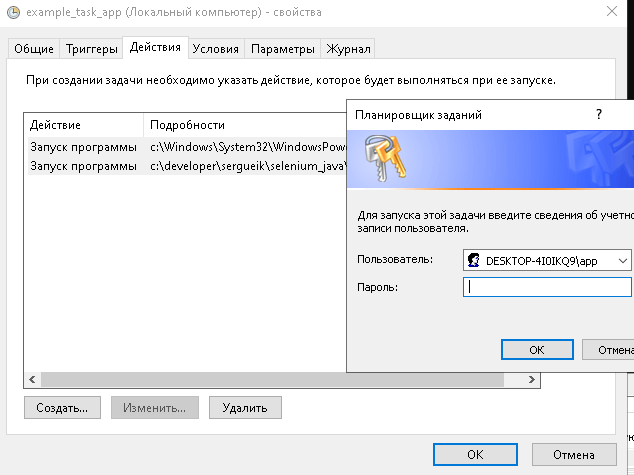
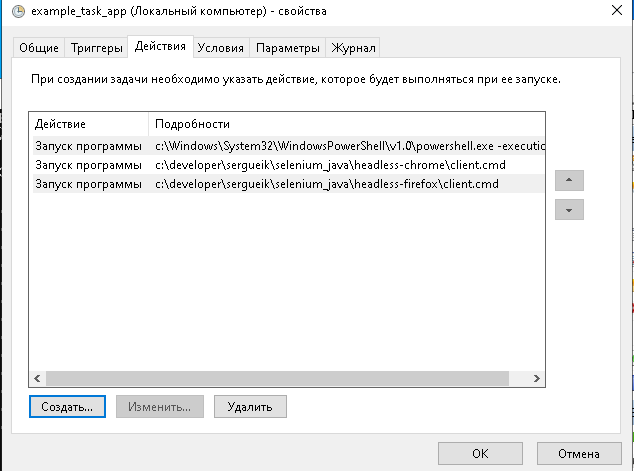
intermeidate revision - added firefox example, minor cosmetic changes in code, added screenshot in  README.md

Changed region(s): [[0.0, 0.0, 1.0, 1.0], [0.5394, 0.535, 0.6893, 0.5648], [0.5394, 0.5945, 0.6293, 0.6242]]

diff --git a/headless-firefox/src/test/java/example/MinimalTest.java b/headless-firefox/src/test/java/example/MinimalTest.java
@@ -51,10 +51,12 @@ public class MinimalTest {
 	// application configuration file
 	private static String propertiesFileName = "application.properties";
 	private static Map<String, String> propertiesMap = new HashMap<>();
+	private static boolean headless = false;
 
 	@BeforeClass
 	public static void setup() throws IOException {
 
+		headless = setHeadless();
 		propertiesMap = PropertiesParser
 				.getProperties(String.format("%s/src/main/resources/%s",
 						System.getProperty("user.dir"), propertiesFileName));
@@ -72,16 +74,23 @@ public class MinimalTest {
 		 * (Exception e) { }
 		 */
 		// TODO: convert to command line parameter
-		firefoxBinary.addCommandLineOptions("--headless");
-		// NOTE: size argument appears to be ignored
-		firefoxBinary.addCommandLineOptions("--window-size=320,200");
+		if (headless) {
+			firefoxBinary.addCommandLineOptions("--headless");
+			// NOTE: size argument appears to be ignored
+			firefoxBinary.addCommandLineOptions("--window-size=320,200");
+			System.out.println("Switching to headless");
+		} else {
+			System.out.println("Switching to / staying visible");
+		}
 
 		String browserDriver = (propertiesMap
 				.get(browserDrivers.get("browser")) != null)
 						? propertiesMap.get(browserDrivers.get("browser"))
 						: osName.equals("windows")
-								? new File(String.format("%s/Downloads/geckodriver.exe",
-										System.getenv("USERPROFILE"))).getAbsolutePath()
+								/* ? osName.equals("windows") new File(String.format("%s/Downloads/geckodriver.exe",
+										System.getenv("USERPROFILE"))).getAbsolutePath() */
+								? (new File("c:/java/selenium/geckodriver.exe"))
+										.getAbsolutePath()
 								: String.format("%s/Downloads/geckodriver",
 										System.getenv("HOME"));
 		// assuming browser is 32 bit firefox on Windows
@@ -97,12 +106,6 @@ public class MinimalTest {
 		driver = new FirefoxDriver(firefoxOptions);
 		// dynamicSearchButtonTest
 		driver.manage().timeouts().implicitlyWait(4, TimeUnit.SECONDS);
-	}
-
-	// @Ignore
-	@Test
-	public void testChromeDriver() throws Exception {
-		assertThat(driver, notNullValue());
 	}
 
 	@Test
@@ -140,12 +143,12 @@ public class MinimalTest {
 			// obscures it (the name of obscuring element varies)
 			try {
 				// take screenshot in catch block.
-				System.err.println("Taking a screenshot");
 				File scrFile = ((TakesScreenshot) driver)
 						.getScreenshotAs(OutputType.FILE);
 				String currentDir = System.getProperty("user.dir");
-				FileUtils.copyFile(scrFile,
-						new File(FilenameUtils.concat(currentDir, "screenshot.png")));
+				String filePath = FilenameUtils.concat(currentDir, "screenshot1.png");
+				System.err.println("Taking a screenshot in exception: " + filePath);
+				FileUtils.copyFile(scrFile, new File(filePath));
 			} catch (IOException ex) {
 				System.err.println(
 						"Excepion when taking the screenshot (ignored) " + ex.toString());
@@ -177,8 +180,9 @@ public class MinimalTest {
 				File scrFile = ((TakesScreenshot) driver)
 						.getScreenshotAs(OutputType.FILE);
 				String currentDir = System.getProperty("user.dir");
-				FileUtils.copyFile(scrFile,
-						new File(FilenameUtils.concat(currentDir, "screenshot.png")));
+				String filePath = FilenameUtils.concat(currentDir, "screenshot2.png");
+				System.err.println("Taking a screenshot in teardown: " + filePath);
+				FileUtils.copyFile(scrFile, new File(filePath));
 			} catch (IOException ex) {
 				System.err.println(
 						"Excepion when taking the screenshot (ignored) " + ex.toString());
@@ -198,4 +202,64 @@ public class MinimalTest {
 		}
 		return osName;
 	}
+
+	public static boolean setHeadless() {
+		boolean headless = false;
+		if (System.getenv().containsKey("HEADLESS")
+				&& System.getenv("HEADLESS").matches("(?:true|yes|1)")) {
+			headless = true;
+		}
+		if (!(getOSName().equals("windows"))
+				&& !(System.getenv().containsKey("DISPLAY"))) {
+			headless = true;
+		}
+
+		// alternatively not even add the environment variable WINDOWS_NO_DISPLAY
+		if (getOSName().equals("windows")) {
+			headless = false;
+			System.out
+					.println("Observed environment keys: " + System.getenv().keySet());
+
+			for (String key : (new String[] { "JAVA_OPTS", "MAVEN_OPTS",
+					"JAVA_TOOL_OPTIONS" })) {
+				System.out.println(String.format("Checking environment %s: %s", key,
+						System.getenv(key)));
+			}
+
+			// NOTE: when set through batch file the new environment variable
+			// WINDOWS_NO_DISPLAY
+			// remains undiscovered
+			if (System.getenv().containsKey("WINDOWS_NO_DISPLAY")
+					&& System.getenv("WINDOWS_NO_DISPLAY").matches("(?:true|yes|1)")) {
+				System.out.println("Detected WINDOWS_NO_DISPLAY");
+				headless = true;
+			}
+			if (getPropertyEnv("WINDOWS_NO_DISPLAY", "").matches("(?:true|yes|1)")) {
+				System.out
+						.println("Detected WINDOWS_NO_DISPLAY environment or property");
+				headless = true;
+			}
+			if (System.getenv().containsKey("JAVA_TOOL_OPTIONS")
+					&& System.getenv("JAVA_TOOL_OPTIONS")
+							.matches(".*WINDOWS_NO_DISPLAY=(?:true|yes|1).*")) {
+				System.out.println("Detected WINDOWS_NO_DISPLAY in JAVA_TOOL_OPTIONS");
+				headless = true;
+			}
+		}
+		return headless;
+	}
+
+	// origin:
+	// https://github.com/TsvetomirSlavov/wdci/blob/master/code/src/main/java/com/seleniumsimplified/webdriver/manager/EnvironmentPropertyReader.java
+	public static String getPropertyEnv(String name, String defaultValue) {
+		String value = System.getProperty(name);
+		if (value == null) {
+			value = System.getenv(name);
+			if (value == null) {
+				value = defaultValue;
+			}
+		}
+		return value;
+	}
+
 }

diff --git a/headless-chrome/src/test/java/software/MinimalTest.java b/headless-chrome/src/test/java/software/MinimalTest.java
@@ -194,12 +194,12 @@ public class MinimalTest {
 			// obscures it (the name of obscuring element varies)
 			try {
 				// take screenshot in catch block.
-				System.err.println("Taking a screenshot");
 				File scrFile = ((TakesScreenshot) driver)
 						.getScreenshotAs(OutputType.FILE);
 				String currentDir = System.getProperty("user.dir");
-				FileUtils.copyFile(scrFile,
-						new File(FilenameUtils.concat(currentDir, "screenshot.png")));
+				String filePath = FilenameUtils.concat(currentDir, "screenshot1.png");
+				System.err.println("Taking a screenshot " + filePath);
+				FileUtils.copyFile(scrFile, new File(filePath));
 			} catch (IOException ex) {
 				System.err.println(
 						"Excepion when taking the screenshot (ignored) " + ex.toString());
@@ -232,8 +232,9 @@ public class MinimalTest {
 
 						.getScreenshotAs(OutputType.FILE);
 				String currentDir = System.getProperty("user.dir");
-				FileUtils.copyFile(scrFile,
-						new File(FilenameUtils.concat(currentDir, "screenshot.png")));
+				String filePath = FilenameUtils.concat(currentDir, "screenshot2.png");
+				System.err.println("Taking a screenshot " + filePath);
+				FileUtils.copyFile(scrFile, new File(filePath));
 			} catch (IOException ex) {
 				System.err.println(
 						"Excepion when taking the screenshot (ignored) " + ex.toString());

diff --git a/headless-chrome/README.md b/headless-chrome/README.md
@@ -5,7 +5,9 @@ based on [ldaume/headless-chrome](https://github.com/ldaume/headless-chrome)
 
 ![visual run](https://github.com/sergueik/selenium_java/blob/master/headless-chrome/screenshots/capture-visual.png)
 
-![task setup Page](https://github.com/sergueik/selenium_java/blob/master/headless-chrome/screenshots/capture-task.png)
+![task actions](https://github.com/sergueik/selenium_java/blob/master/headless-chrome/screenshots/capture-task.png)
+
+![task trigger](https://github.com/sergueik/selenium_java/blob/master/headless-chrome/screenshots/capture-task-trigger.png)
 
 ![processes](https://github.com/sergueik/selenium_java/blob/master/headless-chrome/screenshots/capture-processes.png)
 
